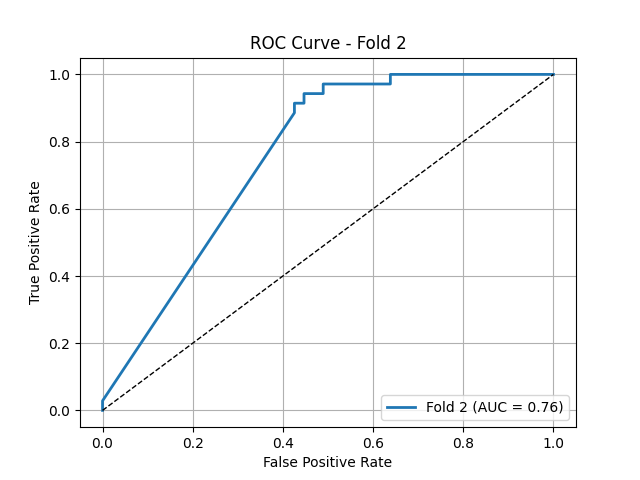
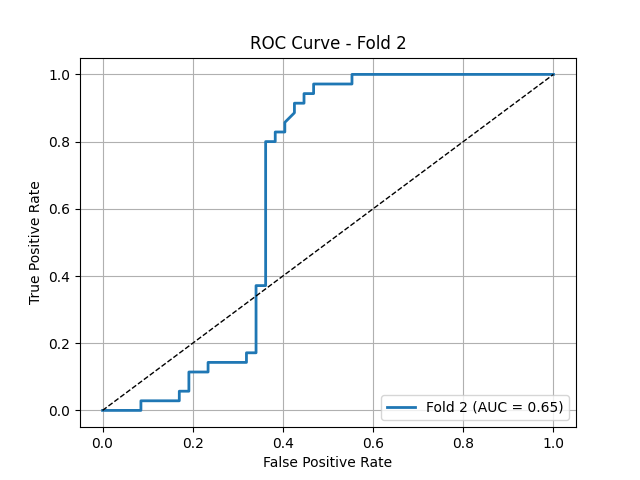
changed gamma of focal poswieght of bce

diff --git a/multi_head_models.py b/multi_head_models.py
@@ -38,7 +38,7 @@ class AsymmetricLoss(nn.Module):
         return loss.mean()
     
 class FocalLoss(nn.Module):
-    def __init__(self, alpha=0.25, gamma=2.0, reduction='mean'):
+    def __init__(self, alpha=0.25, gamma=3.0, reduction='mean'):
         super(FocalLoss, self).__init__()
         self.alpha = alpha
         self.gamma = gamma
@@ -288,7 +288,7 @@ class BinaryClassification(pl.LightningModule):
 
 
         self.loss_fn = FocalLoss() 
-        self.loss_fn2 = nn.BCEWithLogitsLoss(pos_weight=torch.tensor([3.0])) #FocalLoss()
+        self.loss_fn2 = nn.BCEWithLogitsLoss(pos_weight=torch.tensor([5.0])) #FocalLoss()
 
         self.accuracy_metric = BinaryAccuracy()  # Accuracy metric using TorchMetrics
         self.auc_metric = torchmetrics.AUROC(task="binary")
